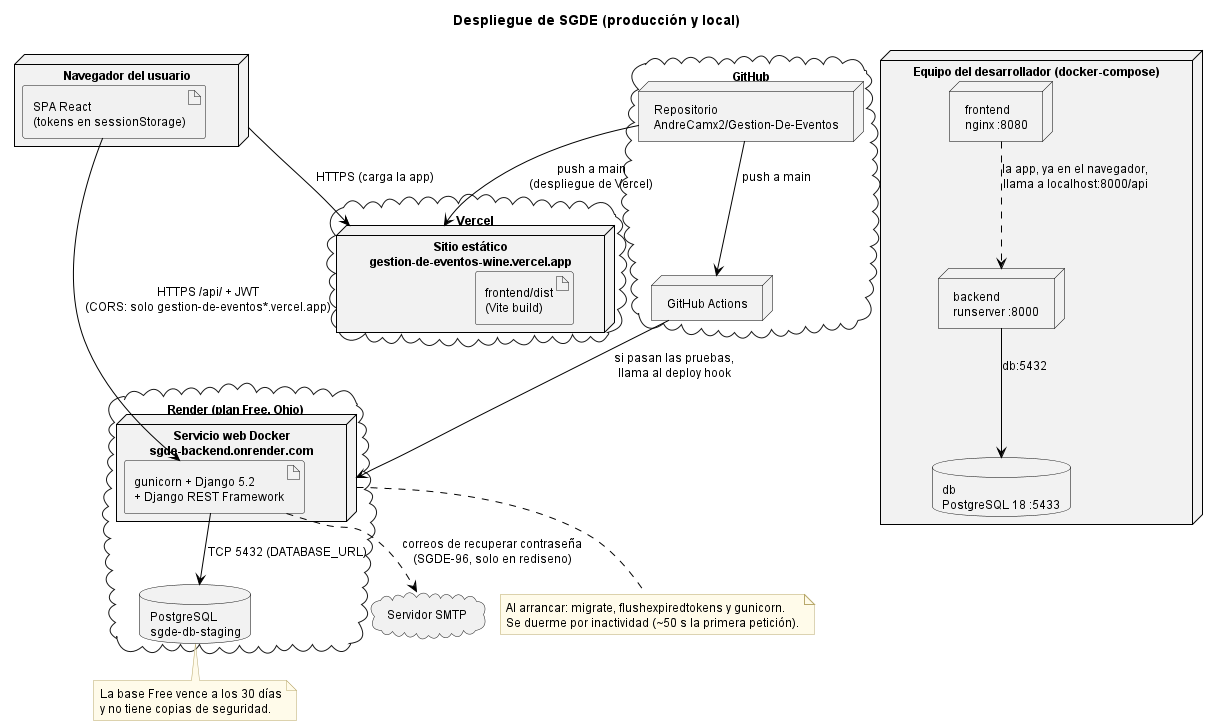
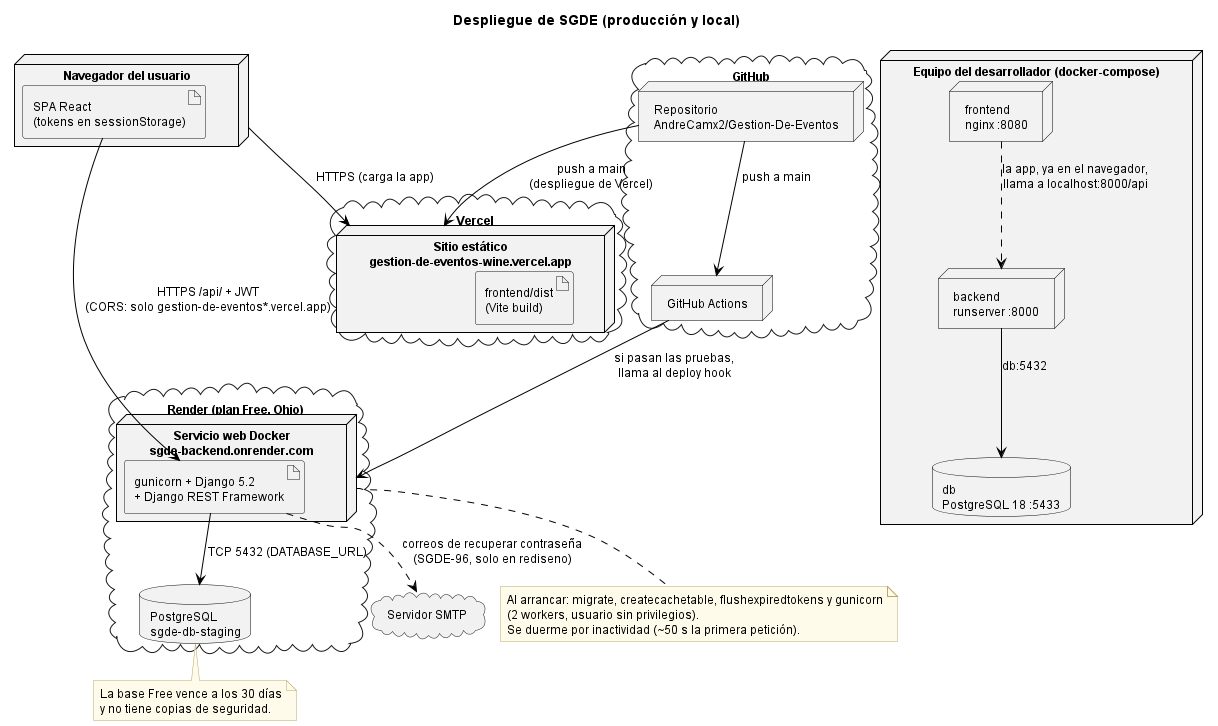
fix(seguridad): HTTPS en producción, cabeceras del frontend y contenedor sin root
SGDE-113:
- Con DEBUG=False: SECURE_PROXY_SSL_HEADER (Render pone el HTTPS delante),
  redirección a HTTPS, cookies Secure y HSTS (1 hora, se sube con
  SECURE_HSTS_SECONDS). check --deploy queda sin avisos; W021 (preload) se
  silencia porque la lista solo acepta dominios propios.
- CSRF_TRUSTED_ORIGINS solo confía en el backend, no en cualquier
  *.onrender.com o *.vercel.app.
- vercel.json manda CSP, nosniff, Referrer-Policy, X-Frame-Options y
  Permissions-Policy. CI apaga la redirección (SECURE_SSL_REDIRECT=False)
  porque el cliente de pruebas usa HTTP.

SGDE-120:
- El backend corre como el usuario app (no root) y gunicorn arranca con 2
  workers y 60 s de timeout (WEB_CONCURRENCY lo cambia).
- Caché en la base: los límites de intentos cuentan igual en todos los
  workers. createcachetable corre al arrancar.
- frontend/dockerfile pasa a Dockerfile (en Linux no lo encontraba) y usa
  npm ci.
- Se borra la app eventos, sin modelos ni uso.

Refs: SGDE-113, SGDE-120

Changed region(s): [[0.4056, 0.8182, 0.7176, 0.8788]]

diff --git a/backend/config/settings.py b/backend/config/settings.py
@@ -51,6 +51,26 @@ if allowed_hosts_env:
 else:
     ALLOWED_HOSTS = ['*'] if DEBUG else ['.onrender.com', 'localhost', '127.0.0.1']
 
+# HTTPS en producción (SGDE-113). Solo con DEBUG=False: en local no hay HTTPS.
+# - Render recibe el HTTPS y le pasa la petición a Django por HTTP, avisando con
+#   X-Forwarded-Proto. Sin SECURE_PROXY_SSL_HEADER, Django creería que todo es HTTP
+#   (la redirección no pararía nunca y el admin rechazaría el login por CSRF).
+# - Las pruebas de CI corren con DEBUG=False y su cliente usa HTTP: apagan la
+#   redirección con SECURE_SSL_REDIRECT=False en .github/workflows/deploy.yml.
+# - HSTS empieza en 1 hora. Una vez confirmado que todo funciona por HTTPS, se sube
+#   con SECURE_HSTS_SECONDS (por ejemplo 31536000, un año) sin tocar código.
+if not DEBUG:
+    SECURE_PROXY_SSL_HEADER = ("HTTP_X_FORWARDED_PROTO", "https")
+    SECURE_SSL_REDIRECT = os.getenv("SECURE_SSL_REDIRECT", "True").lower() in ("true", "1")
+    SESSION_COOKIE_SECURE = True
+    CSRF_COOKIE_SECURE = True
+    SECURE_HSTS_SECONDS = entero_positivo_entorno("SECURE_HSTS_SECONDS", 3600)
+    SECURE_HSTS_INCLUDE_SUBDOMAINS = True
+    # W021 pide SECURE_HSTS_PRELOAD (la lista de HSTS que traen los navegadores).
+    # Esa lista solo acepta dominios propios, y sgde-backend.onrender.com es un
+    # subdominio de Render. Se silencia; con un dominio propio se puede activar.
+    SILENCED_SYSTEM_CHECKS = ["security.W021"]
+
 
 INSTALLED_APPS = [
     "django.contrib.admin",
@@ -71,7 +91,6 @@ INSTALLED_APPS = [
     "apps.catalogo",
     "apps.proveedores",
     "apps.cotizaciones",
-    "apps.eventos",
     "apps.core",
 ]
 
@@ -107,9 +126,13 @@ CORS_ALLOWED_ORIGIN_REGEXES = [
     r"^https://gestion-de-eventos[a-z0-9-]*\.vercel\.app$",
 ]
 
+# Orígenes desde los que se aceptan formularios con CSRF. Solo los usa el admin de
+# Django (el API usa JWT, sin CSRF), que vive en el mismo dominio del backend.
+# Antes confiaba en cualquier *.onrender.com y *.vercel.app (SGDE-113).
 CSRF_TRUSTED_ORIGINS = [
-    "https://*.onrender.com",
-    "https://*.vercel.app",
+    origen.strip()
+    for origen in os.getenv("CSRF_TRUSTED_ORIGINS", "https://sgde-backend.onrender.com").split(",")
+    if origen.strip()
 ]
 
 ROOT_URLCONF = 'config.urls'
@@ -153,6 +176,18 @@ else:
         }
     }
 
+
+# Caché en la base de datos (SGDE-120). Los límites de intentos de DRF (SGDE-112)
+# cuentan en la caché. Con la de memoria, cada worker de gunicorn llevaría su
+# propia cuenta y el tope real se multiplicaría por el número de workers. La tabla
+# la crea `manage.py createcachetable` al arrancar (Dockerfile y docker-compose);
+# las pruebas la crean solas.
+CACHES = {
+    "default": {
+        "BACKEND": "django.core.cache.backends.db.DatabaseCache",
+        "LOCATION": "sgde_cache",
+    }
+}
 
 AUTH_PASSWORD_VALIDATORS = [
     {'NAME': 'django.contrib.auth.password_validation.UserAttributeSimilarityValidator'},

diff --git a/backend/apps/usuarios/tests.py b/backend/apps/usuarios/tests.py
@@ -1,5 +1,5 @@
 from django.core.cache import cache
-from django.test import RequestFactory, SimpleTestCase
+from django.test import RequestFactory, TestCase
 from rest_framework import status
 from rest_framework.request import Request
 from rest_framework.test import APITestCase
@@ -650,7 +650,7 @@ class UsuarioMeTests(APITestCase):
         )
 
 
-class LimitePorIpDetrasDelProxyTests(SimpleTestCase):
+class LimitePorIpDetrasDelProxyTests(TestCase):
     """NUM_PROXIES (settings.py): el límite de intentos cuenta por la IP que agrega el
     proxy de Render, no por lo que el cliente escriba en X-Forwarded-For."""
 

diff --git a/README.md b/README.md
@@ -14,6 +14,8 @@ Es un proyecto académico de **Unicolombo** desarrollado con un cliente real del
 
 > El rediseño del frontend ("Piedra viva") vive en la rama `rediseno` y llega a producción cuando se fusione con `main` (SGDE-85).
 
+> Las cabeceras de seguridad del frontend (CSP, SGDE-113) están en `frontend/vercel.json`. Si cambia la URL del backend, hay que cambiarla también en `connect-src`, o el navegador bloqueará las llamadas al API.
+
 ## Qué hace la beta
 
 Requerimientos oficiales: RF-01 a RF-13 y RNF-01 a RNF-08 ([`docs/Requerimientos Proyecto Gestion De Eventos.docx`](docs/)).
